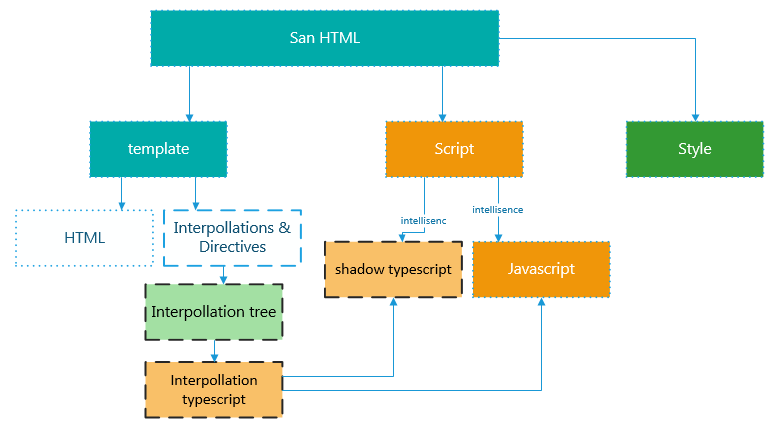
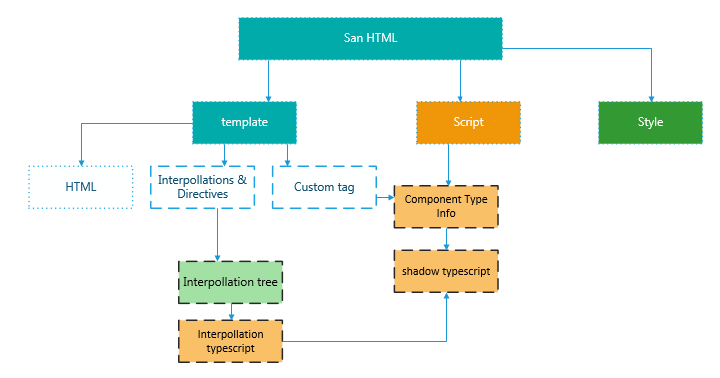
update pic

diff --git a/how it works.md b/how it works.md
@@ -67,6 +67,8 @@ ts的ast中所有的节点都包含位置信息，如果生成的ast位置信息
 
 另外，由于 san 设计的接口并没有考虑到 typescript 的局限性，ts language service 直接对 san文件的script部分进行推断基本就只能拿到一个any的结果，（这里也可能是因为我写的ts定义文件不对），因此在script部分的类型提示是从 js文件生成了一个ts文件，再从ts文件提供类型提示。
 
+![这里插个图](./doc_imgs/snipaste20180709_170343.png)
+
 生成这两个新文件还有一个前提，需要知道原本script中用户声明的对象的类型，这里就可能产生一个死循环：
 
 你需要在访问一个文件之前知道他的内容，
@@ -75,6 +77,6 @@ ts的ast中所有的节点都包含位置信息，如果生成的ast位置信息
 
 因此这里使用了两个language service
 
-![这里插个图](./doc_imgs/snipaste20180709_170343.png)
+![这里插个图](./doc_imgs/snipaste20180709_185632.png)
 
 先从其中一个language service中获得基本的类型信息，再生成文件，给到第二个language service提供接口。
